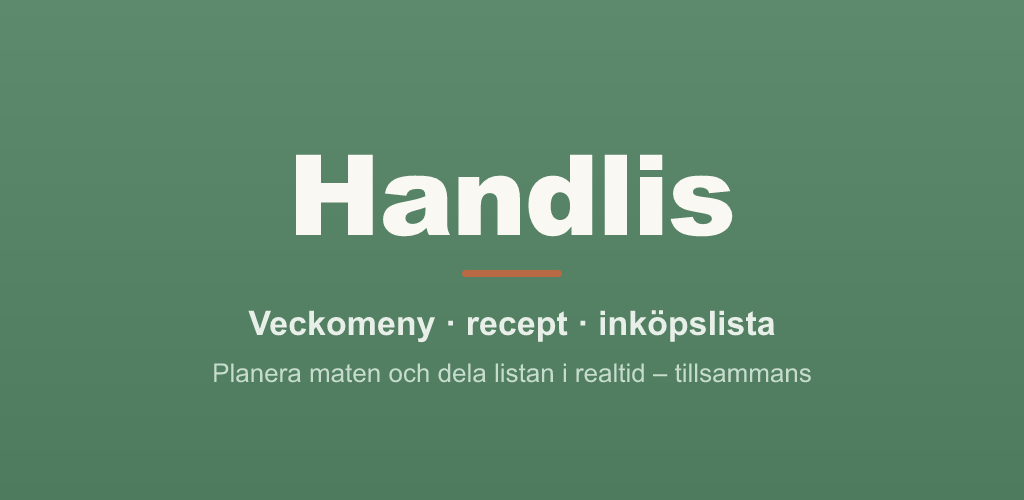
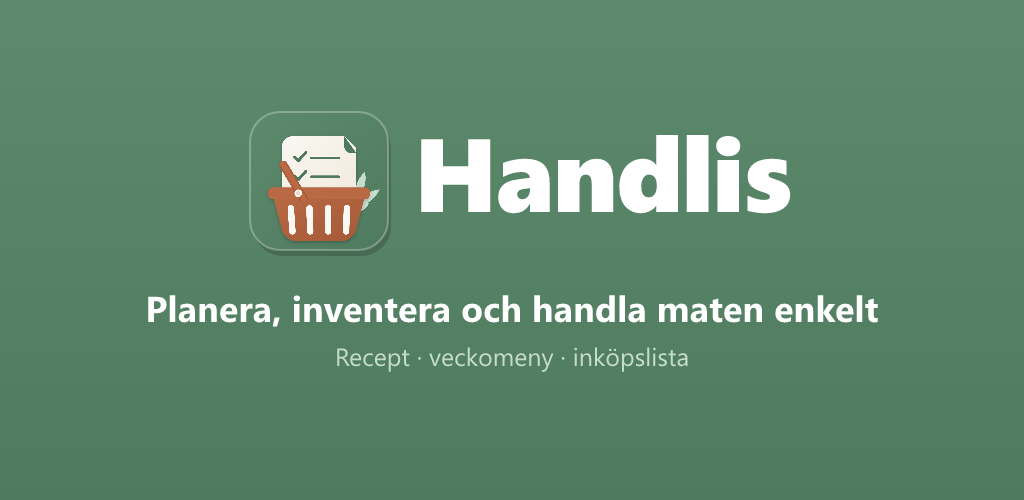
Play feature graphic: vit text + system-ui-sans (matchar startsidan)
Byter beige mot vit 'Handlis' (bättre kontrast mot grön botten) och renderar i
system-ui-sans (Segoe UI/Roboto-stack) med samma proportionella letterspacing
som landningssidans ordmärke - appen har ingen egen brand-font, landningen kör
system-sans. Behåller ikon-lockupen till vänster. Listnings-copy uppdaterad.

diff --git a/app/store/play-listing.md b/app/store/play-listing.md
@@ -4,7 +4,7 @@
 Handlis
 
 ## Kort beskrivning (max 80 tecken)
-Planera veckomeny, spara recept och dela inköpslistan i realtid med hushållet.
+Planera, inventera och handla veckans mat – enkelt och tillsammans.
 
 ## Fullständig beskrivning (max 4000 tecken)
 Handlis samlar hela veckans matplanering på ett ställe – för hela hushållet.
@@ -15,16 +15,17 @@ Tre enkla steg som hänger ihop:
 Spara egna favoriter, klistra in en text eller importera från en länk. Allt finns samlat och sökbart under Recept.
 
 🍽 Planera veckan
-Lägg recepten på veckans dagar. Ni ser direkt vad ni ska äta – frukost, lunch eller middag – och kan dra rätter mellan dagar.
+Lägg recepten på veckans dagar. Ni ser direkt vad ni ska äta – frukost, lunch eller middag – och kan enkelt flytta rätter mellan dagar.
 
 🛒 Handla tillsammans
-Skicka ingredienserna från veckomenyn till inköpslistan med ett tryck. Bocka av i realtid medan någon annan fyller på – ingen köper dubbelt, inget glöms.
+Överför ingredienserna från veckomenyn till inköpslistan med ett tryck. Bocka av i realtid medan någon annan fyller på – ingen köper dubbelt, inget glöms.
 
 Det som gör Handlis smart:
+• Automatisk igenkänning – varor hamnar i rätt kategori och dubbletter slås ihop.
+• Egna butiker – sortera kategorierna i den ordning varorna faktiskt kommer i din affär, så plocklistan följer din rutt.
 • Realtidsdelning – alla i hushållet ser samma lista och samma veckomeny, direkt.
 • "Jag handlar" – säg till att du är i butiken så kan andra skicka med varor live.
-• Egna butiker – sortera kategorierna i den ordning varorna faktiskt kommer i din affär, så plocklistan följer din rutt.
-• Automatisk igenkänning – varor hamnar i rätt kategori och dubbletter slås ihop.
+• Spara veckomenyer som mallar för att 
 • Ljust och mörkt tema, snabbt och avskalat.
 
 Handlis är gjort för familjer och delade hushåll som vill slippa lappar på kylen, dubbelköp och "vad ska vi äta?" varje kväll.
